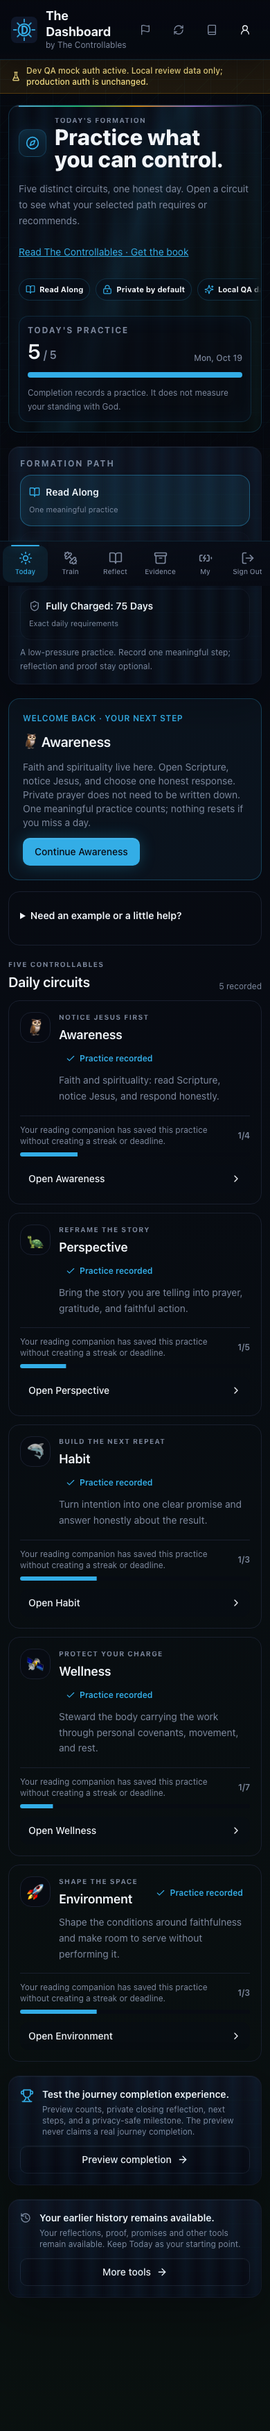
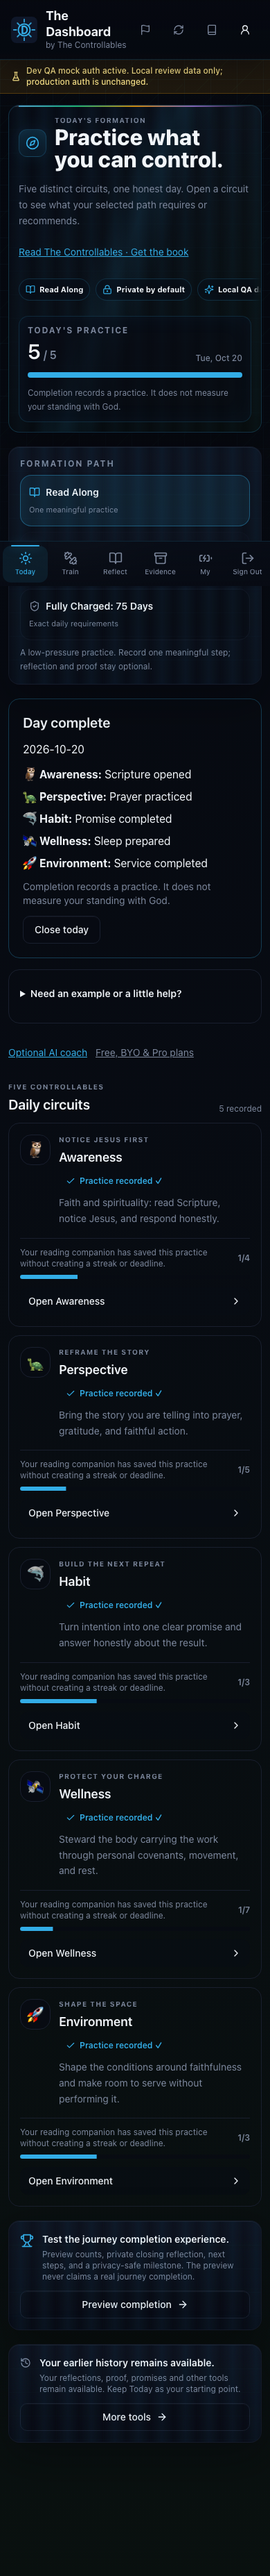
Verify rebased mobile QA with deterministic menu dismissal

diff --git a/tests/e2e/qa-polish.spec.ts b/tests/e2e/qa-polish.spec.ts
@@ -7,7 +7,7 @@ test("mobile Formation book links, sign out, copy, and signup-only guidance",asy
  const start=Date.now(); await page.goto("/formation/today"); await expect(page.getByRole("heading",{name:"Practice what you can control."})).toBeVisible(); console.log(`QA polish Today shell ${Date.now()-start}ms`);
  await expect(page.locator('[data-book-placement="formation_today"]')).toHaveAttribute("href",BOOK_URL);
  await expect(page.locator("body")).not.toContainText(/Life OS|idempotent/i);
- await page.getByRole("button",{name:"Profile menu"}).click(); await expect(page.getByRole("menuitem",{name:"Sign Out"})).toBeVisible(); await page.keyboard.press("Escape");
+ await page.getByRole("button",{name:"Profile menu"}).click(); await expect(page.getByRole("menuitem",{name:"Sign Out"})).toBeVisible(); await page.getByRole("menu",{name:"Profile menu"}).press("Escape"); await expect(page.getByRole("menu",{name:"Profile menu"})).toBeHidden();
  await expect(page.getByRole("button",{name:"Sign Out",exact:true})).toBeVisible();
  await page.getByRole("button",{name:"Open Awareness"}).click(); await expect(page.locator('[data-book-placement="formation_circuit"]')).toHaveAttribute("href",BOOK_URL); await expect(page.locator("body")).not.toContainText(/Life OS|idempotent/i);
  await page.goto("/formation/today");
